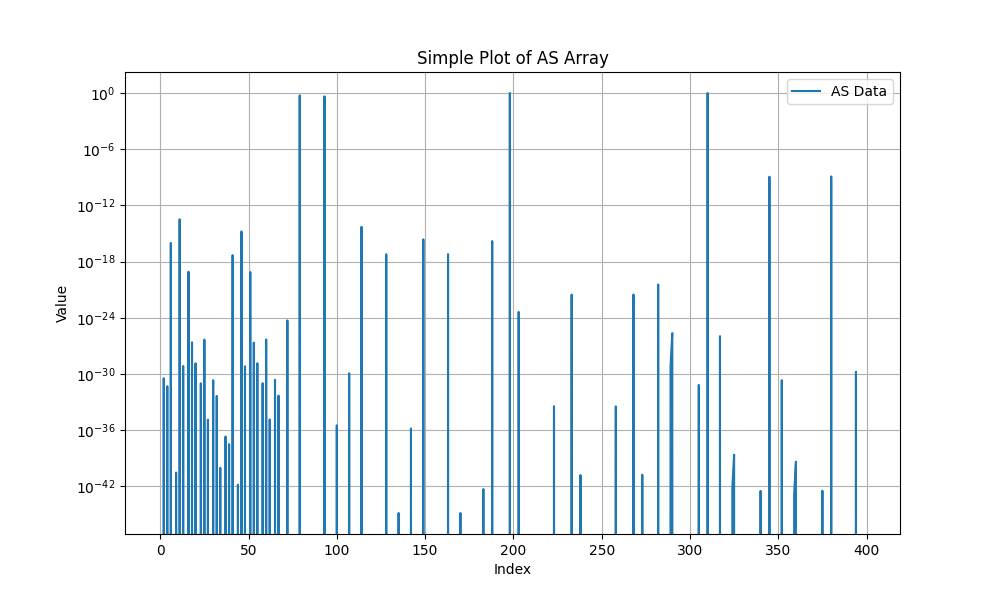
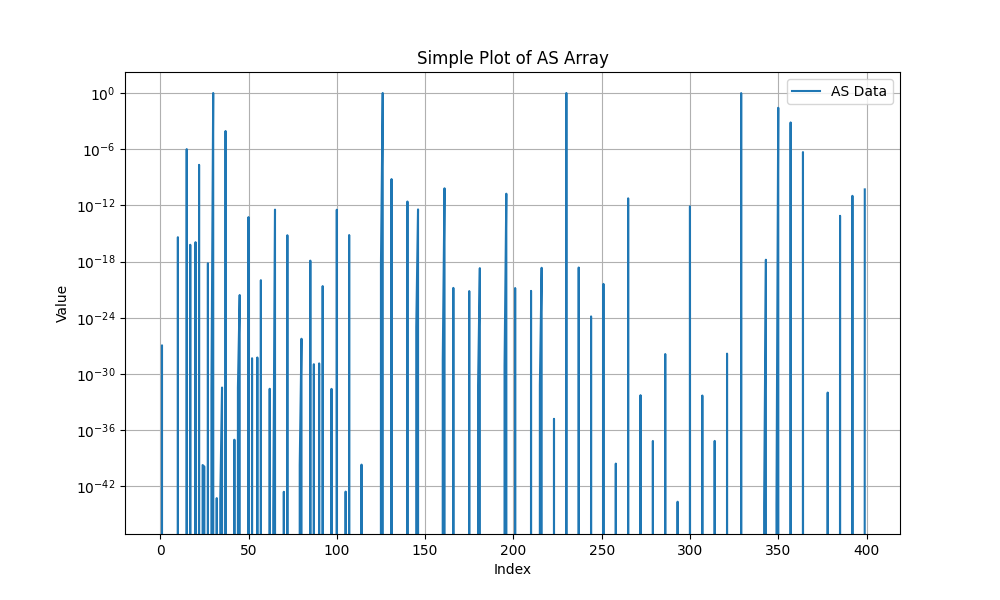
sda

Changed region(s): [[0.155, 0.18, 0.868, 0.9]]

diff --git a/solver.py b/solver.py
@@ -454,7 +454,7 @@ class Solver(object):
 
         start_idx = np.random.choice(anomaly_starts)
         #start_idx = 61790 # 43050
-        def extract_random_segment(data, segment_length=400, start_idx=None):
+        def extract_random_segment(data, segment_length=200, start_idx=None):
             if len(data) <= segment_length:
                 return data  # Return the entire data if it's shorter than the segment length
             
@@ -466,12 +466,12 @@ class Solver(object):
             return data[start_idx:start_idx + segment_length]
 
         # Extract random segments of lengthfgdfg 150
-        segment_length = 400
+        segment_length = 200
         #start_idx = np.random.randint(0, len(anomaly_starts) - segment_length)
         
         print(f"start_idx: {start_idx}")
         as_segment = extract_random_segment(test_energy, segment_length, start_idx) #Anomaly Score
-        #as_segment = np.array(as_segment)
+        as_segment = np.array(as_segment)
 
         gt_segment = extract_random_segment(gt, segment_length, start_idx) #ground truth
         TS_segment = extract_random_segment(TS, segment_length, start_idx) #Time Series Data
@@ -493,7 +493,6 @@ class Solver(object):
         import matplotlib.pyplot as plt 
         plt.figure(figsize=(10, 6))
         plt.plot(as_segment, label='AS Data')
-        plt.yscale('log')
         plt.title('Simple Plot of AS Array')
         plt.xlabel('Index')
         plt.ylabel('Value')
@@ -531,9 +530,8 @@ class Solver(object):
         #plt.figure(figsize=(12, 6))
         plt.subplot(2, 1, 2)  # 2 rows, 1 column, second plot
         plt.plot(as_segment, label='Anomaly Scores', color='green')
-        plt.yscale('log')
         plt.axhline(y=thresh, color='red', linestyle='--', label='Threshold')
-        plt.fill_between(range(len(as_segment)), ymin, plt.ylim()[1], where=(gt_segment == 1), color='green', alpha=0.2, label='Ground Truth') # plt.ylim()[1]
+        plt.fill_between(range(len(as_segment)), 0, 1, where=(gt_segment == 1), color='green', alpha=0.2, label='Ground Truth') # plt.ylim()[1]
         plt.xlabel('Time')
         plt.ylabel('Anomaly Score')
         plt.title(f'Anomaly Scores Over Time (Area{start_idx})')
@@ -544,7 +542,7 @@ class Solver(object):
         #plt.ylim([ymin, ymax])
         # Save the plot to a file
         # Adjust layout to prevent overlap
-        #plt.tight_layout()
+        plt.tight_layout()
 
         # Save the combined plot to a file
         plot_filename = f'combined_plot_idx_{start_idx}.png'
